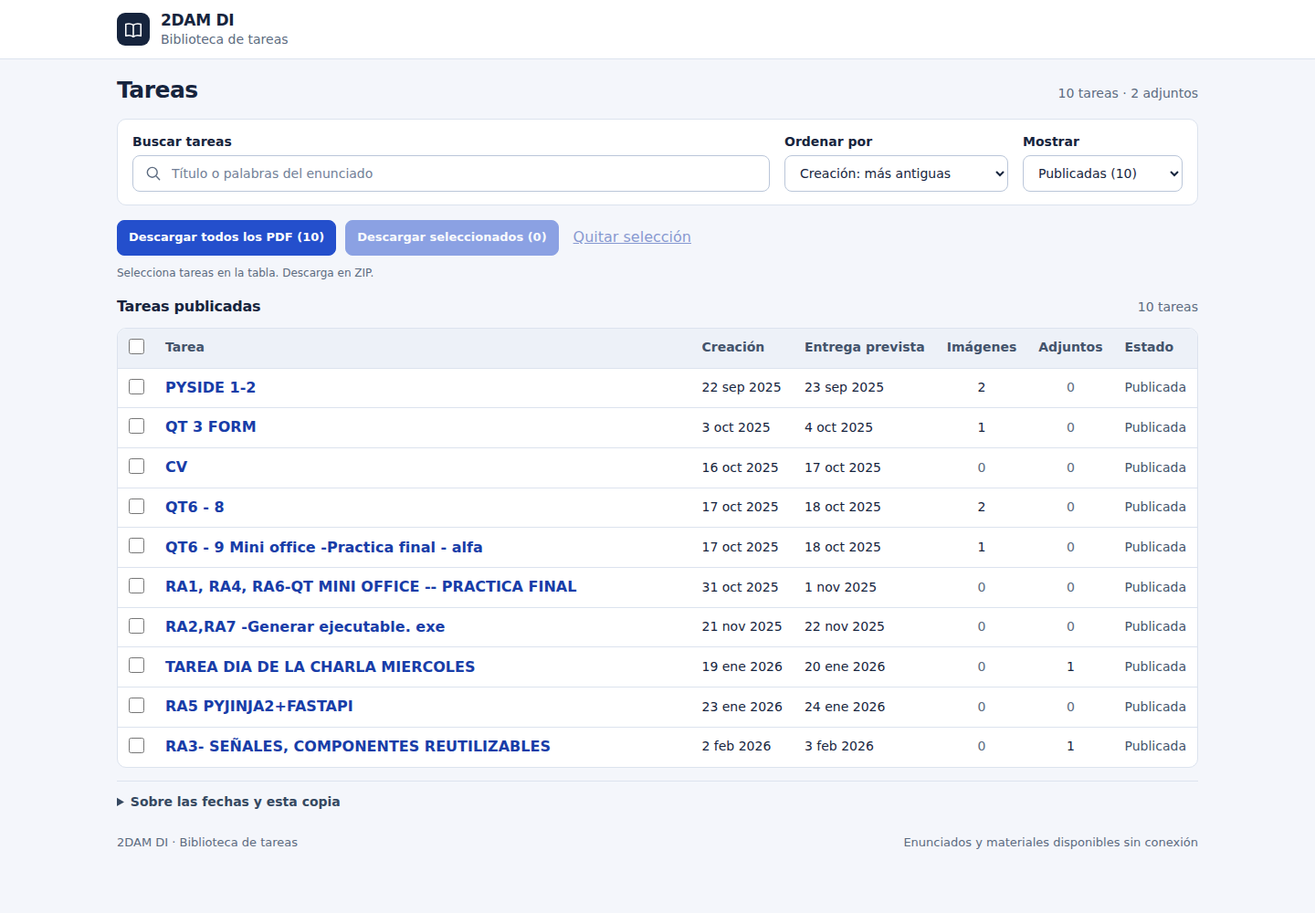
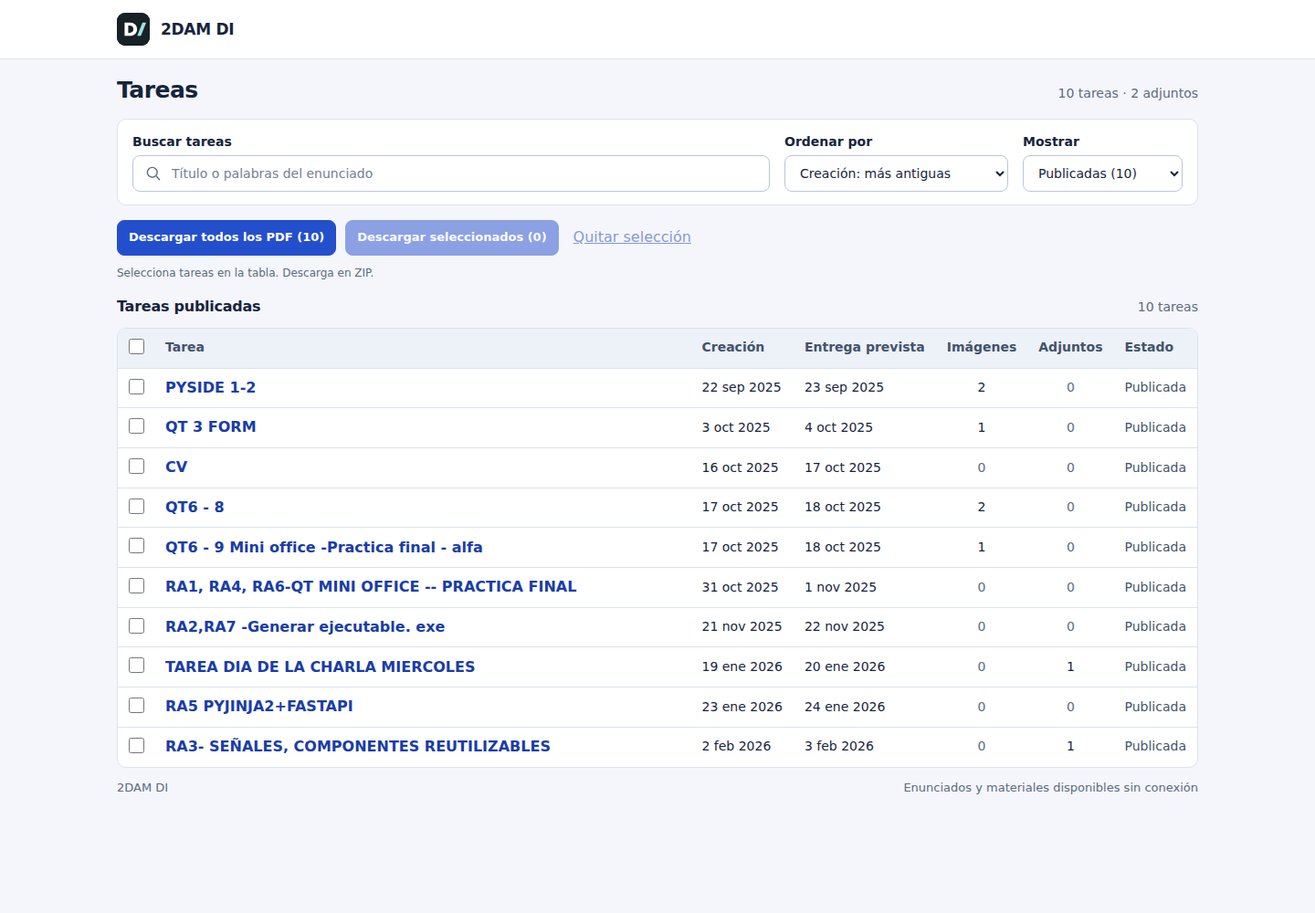
Simplify exercise headers and reuse the site brand

diff --git a/ejercicios/di/INDICE.html b/ejercicios/di/INDICE.html
@@ -1,12 +1,12 @@
 <!doctype html>
 <html lang="es"><head><meta charset="utf-8"><meta name="viewport" content="width=device-width, initial-scale=1">
 <meta http-equiv="Content-Security-Policy" content="default-src 'none'; img-src 'self' data:; style-src 'self' 'unsafe-inline'; script-src 'self'; base-uri 'none'; form-action 'none'">
-<meta name="theme-color" content="#16243d"><title>Biblioteca de tareas · 2DAM DI</title>
+<meta name="theme-color" content="#16243d"><title>Ejercicios · 2DAM DI</title>
 <link rel="stylesheet" href="../assets/aula.css">
-<link rel="stylesheet" href="../assets/listado.css"><script src="../assets/aula.js" defer></script><script src="../assets/pdf-lotes.js" defer></script></head><body class="index-page">
+<link rel="stylesheet" href="../assets/listado.css"><script src="../assets/aula.js" defer></script><script src="../assets/pdf-lotes.js" defer></script><link rel="stylesheet" href="../assets/marca.css"><link rel="icon" type="image/svg+xml" href="../../assets/favicon.svg"></head><body class="index-page">
 <a class="skip-link" href="#contenido">Ir al contenido</a>
 <header class="site-header"><div class="wrap header-inner">
-<a class="brand" href="../../index.html" title="Volver a las asignaturas" aria-label="Volver a las asignaturas"><span class="brand-mark"><svg viewBox="0 0 24 24" fill="none" stroke="currentColor" stroke-width="1.7" stroke-linecap="round" stroke-linejoin="round" aria-hidden="true"><path d="M12 7c-3-2-6-2-9-1v14c3-1 6-1 9 1 3-2 6-2 9-1V6c-3-1-6-1-9 1Z"/><path d="M12 7v14"/></svg></span><span class="brand-text"><strong>2DAM DI</strong><span>Biblioteca de tareas</span></span></a>
+<a class="brand" href="../../index.html" title="Volver a las asignaturas" aria-label="Volver a las asignaturas"><span class="brand-mark"><img src="../../assets/favicon.svg" alt="" width="64" height="64"></span><span class="brand-text"><strong>2DAM DI</strong></span></a>
 <span class="header-note"><svg viewBox="0 0 24 24" fill="none" stroke="currentColor" stroke-width="1.7" stroke-linecap="round" stroke-linejoin="round" aria-hidden="true"><path d="M12 7c-3-2-6-2-9-1v14c3-1 6-1 9 1 3-2 6-2 9-1V6c-3-1-6-1-9 1Z"/><path d="M12 7v14"/></svg> 2DAM DI</span></div></header>
 <main class="wrap" id="contenido">
 <div class="list-intro"><h1>Tareas</h1><p>10 tareas · 2 adjuntos</p></div>
@@ -77,8 +77,5 @@
 <td class="number-cell subtle">0</td><td class="number-cell">1</td>
 <td><span class="published-label">Publicada</span></td></tr></tbody></table></div>
 <section class="empty-state" id="empty-state" aria-label="Sin resultados" hidden><svg viewBox="0 0 24 24" fill="none" stroke="currentColor" stroke-width="1.7" stroke-linecap="round" stroke-linejoin="round" aria-hidden="true"><circle cx="10.5" cy="10.5" r="6.5"/><path d="m16 16 4 4"/></svg><h3>No encontramos ninguna tarea</h3><p>Prueba con otras palabras o cambia el filtro de publicación.</p><button class="button" id="reset-filters" type="button">Restablecer filtros</button></section>
-<details class="help"><summary>Sobre las fechas y esta copia</summary>
-<p><strong>Creación</strong> indica cuándo se creó la tarea en Teams, aunque todavía fuera un borrador. <strong>Entrega prevista</strong> es el plazo indicado para entregar el trabajo; Teams puede permitir entregas posteriores. Las fechas se muestran en la hora de Madrid.</p>
-<p>Esta biblioteca conserva los enunciados y materiales de la asignatura. Las entregas se realizan por el medio indicado por el profesor.</p>
-<p>Si has recibido un ZIP, elige <strong>Extraer todo</strong> antes de abrir <strong>INDICE.html</strong>. Conserva juntas todas las carpetas para que funcionen los enlaces y las imágenes.</p></details>
-</main><footer class="wrap footer"><span>2DAM DI · Biblioteca de tareas</span><span>Enunciados y materiales disponibles sin conexión</span></footer></body></html>
+
+</main><footer class="wrap footer"><span>2DAM DI</span><span>Enunciados y materiales disponibles sin conexión</span></footer></body></html>

diff --git a/ejercicios/dapw/INDICE.html b/ejercicios/dapw/INDICE.html
@@ -1,12 +1,12 @@
 <!doctype html>
 <html lang="es"><head><meta charset="utf-8"><meta name="viewport" content="width=device-width, initial-scale=1">
 <meta http-equiv="Content-Security-Policy" content="default-src 'none'; img-src 'self' data:; style-src 'self' 'unsafe-inline'; script-src 'self'; base-uri 'none'; form-action 'none'">
-<meta name="theme-color" content="#16243d"><title>Biblioteca de tareas · DAPW</title>
+<meta name="theme-color" content="#16243d"><title>Ejercicios · DAPW</title>
 <link rel="stylesheet" href="../assets/aula.css">
-<link rel="stylesheet" href="../assets/listado.css"><script src="../assets/aula.js" defer></script><script src="../assets/pdf-lotes.js" defer></script></head><body class="index-page">
+<link rel="stylesheet" href="../assets/listado.css"><script src="../assets/aula.js" defer></script><script src="../assets/pdf-lotes.js" defer></script><link rel="stylesheet" href="../assets/marca.css"><link rel="icon" type="image/svg+xml" href="../../assets/favicon.svg"></head><body class="index-page">
 <a class="skip-link" href="#contenido">Ir al contenido</a>
 <header class="site-header"><div class="wrap header-inner">
-<a class="brand" href="../../index.html" title="Volver a las asignaturas" aria-label="Volver a las asignaturas"><span class="brand-mark"><svg viewBox="0 0 24 24" fill="none" stroke="currentColor" stroke-width="1.7" stroke-linecap="round" stroke-linejoin="round" aria-hidden="true"><path d="M12 7c-3-2-6-2-9-1v14c3-1 6-1 9 1 3-2 6-2 9-1V6c-3-1-6-1-9 1Z"/><path d="M12 7v14"/></svg></span><span class="brand-text"><strong>DAPW</strong><span>Biblioteca de tareas</span></span></a>
+<a class="brand" href="../../index.html" title="Volver a las asignaturas" aria-label="Volver a las asignaturas"><span class="brand-mark"><img src="../../assets/favicon.svg" alt="" width="64" height="64"></span><span class="brand-text"><strong>DAPW</strong></span></a>
 <span class="header-note"><svg viewBox="0 0 24 24" fill="none" stroke="currentColor" stroke-width="1.7" stroke-linecap="round" stroke-linejoin="round" aria-hidden="true"><path d="M12 7c-3-2-6-2-9-1v14c3-1 6-1 9 1 3-2 6-2 9-1V6c-3-1-6-1-9 1Z"/><path d="M12 7v14"/></svg> DAPW</span></div></header>
 <main class="wrap" id="contenido">
 <div class="list-intro"><h1>Tareas</h1><p>13 tareas · 2 adjuntos</p></div>
@@ -92,8 +92,5 @@
 <td class="number-cell subtle">0</td><td class="number-cell subtle">0</td>
 <td><span class="published-label">Publicada</span></td></tr></tbody></table></div>
 <section class="empty-state" id="empty-state" aria-label="Sin resultados" hidden><svg viewBox="0 0 24 24" fill="none" stroke="currentColor" stroke-width="1.7" stroke-linecap="round" stroke-linejoin="round" aria-hidden="true"><circle cx="10.5" cy="10.5" r="6.5"/><path d="m16 16 4 4"/></svg><h3>No encontramos ninguna tarea</h3><p>Prueba con otras palabras o cambia el filtro de publicación.</p><button class="button" id="reset-filters" type="button">Restablecer filtros</button></section>
-<details class="help"><summary>Sobre las fechas y esta copia</summary>
-<p><strong>Creación</strong> indica cuándo se creó la tarea en Teams, aunque todavía fuera un borrador. <strong>Entrega prevista</strong> es el plazo indicado para entregar el trabajo; Teams puede permitir entregas posteriores. Las fechas se muestran en la hora de Madrid.</p>
-<p>Esta biblioteca conserva los enunciados y materiales de la asignatura. Las entregas se realizan por el medio indicado por el profesor.</p>
-<p>Si has recibido un ZIP, elige <strong>Extraer todo</strong> antes de abrir <strong>INDICE.html</strong>. Conserva juntas todas las carpetas para que funcionen los enlaces y las imágenes.</p></details>
-</main><footer class="wrap footer"><span>DAPW · Biblioteca de tareas</span><span>Enunciados y materiales disponibles sin conexión</span></footer></body></html>
+
+</main><footer class="wrap footer"><span>DAPW</span><span>Enunciados y materiales disponibles sin conexión</span></footer></body></html>

diff --git a/ejercicios/pi/INDICE.html b/ejercicios/pi/INDICE.html
@@ -1,12 +1,12 @@
 <!doctype html>
 <html lang="es"><head><meta charset="utf-8"><meta name="viewport" content="width=device-width, initial-scale=1">
 <meta http-equiv="Content-Security-Policy" content="default-src 'none'; img-src 'self' data:; style-src 'self' 'unsafe-inline'; script-src 'self'; base-uri 'none'; form-action 'none'">
-<meta name="theme-color" content="#16243d"><title>Biblioteca de tareas · PI</title>
+<meta name="theme-color" content="#16243d"><title>Ejercicios · PI</title>
 <link rel="stylesheet" href="../assets/aula.css">
-<link rel="stylesheet" href="../assets/listado.css"><script src="../assets/aula.js" defer></script><script src="../assets/pdf-lotes.js" defer></script></head><body class="index-page">
+<link rel="stylesheet" href="../assets/listado.css"><script src="../assets/aula.js" defer></script><script src="../assets/pdf-lotes.js" defer></script><link rel="stylesheet" href="../assets/marca.css"><link rel="icon" type="image/svg+xml" href="../../assets/favicon.svg"></head><body class="index-page">
 <a class="skip-link" href="#contenido">Ir al contenido</a>
 <header class="site-header"><div class="wrap header-inner">
-<a class="brand" href="../../index.html" title="Volver a las asignaturas" aria-label="Volver a las asignaturas"><span class="brand-mark"><svg viewBox="0 0 24 24" fill="none" stroke="currentColor" stroke-width="1.7" stroke-linecap="round" stroke-linejoin="round" aria-hidden="true"><path d="M12 7c-3-2-6-2-9-1v14c3-1 6-1 9 1 3-2 6-2 9-1V6c-3-1-6-1-9 1Z"/><path d="M12 7v14"/></svg></span><span class="brand-text"><strong>PI</strong><span>Biblioteca de tareas</span></span></a>
+<a class="brand" href="../../index.html" title="Volver a las asignaturas" aria-label="Volver a las asignaturas"><span class="brand-mark"><img src="../../assets/favicon.svg" alt="" width="64" height="64"></span><span class="brand-text"><strong>PI</strong></span></a>
 <span class="header-note"><svg viewBox="0 0 24 24" fill="none" stroke="currentColor" stroke-width="1.7" stroke-linecap="round" stroke-linejoin="round" aria-hidden="true"><path d="M12 7c-3-2-6-2-9-1v14c3-1 6-1 9 1 3-2 6-2 9-1V6c-3-1-6-1-9 1Z"/><path d="M12 7v14"/></svg> PI</span></div></header>
 <main class="wrap" id="contenido">
 <div class="list-intro"><h1>Tareas</h1><p>2 tareas · 0 adjuntos</p></div>
@@ -39,8 +39,5 @@
 <td><span class="published-label">Publicada</span></td></tr>
 </tbody></table></div>
 <section class="empty-state" id="empty-state" aria-label="Sin resultados" hidden><svg viewBox="0 0 24 24" fill="none" stroke="currentColor" stroke-width="1.7" stroke-linecap="round" stroke-linejoin="round" aria-hidden="true"><circle cx="10.5" cy="10.5" r="6.5"/><path d="m16 16 4 4"/></svg><h3>No encontramos ninguna tarea</h3><p>Prueba con otras palabras o cambia el filtro de publicación.</p><button class="button" id="reset-filters" type="button">Restablecer filtros</button></section>
-<details class="help"><summary>Sobre las fechas y esta copia</summary>
-<p><strong>Creación</strong> indica cuándo se creó la tarea en Teams, aunque todavía fuera un borrador. <strong>Entrega prevista</strong> es el plazo indicado para entregar el trabajo; Teams puede permitir entregas posteriores. Las fechas se muestran en la hora de Madrid.</p>
-<p>Esta biblioteca conserva los enunciados y materiales de la asignatura. Las entregas se realizan por el medio indicado por el profesor.</p>
-<p>Si has recibido un ZIP, elige <strong>Extraer todo</strong> antes de abrir <strong>INDICE.html</strong>. Conserva juntas todas las carpetas para que funcionen los enlaces y las imágenes.</p></details>
-</main><footer class="wrap footer"><span>PI · Biblioteca de tareas</span><span>Enunciados y materiales disponibles sin conexión</span></footer></body></html>
+
+</main><footer class="wrap footer"><span>PI</span><span>Enunciados y materiales disponibles sin conexión</span></footer></body></html>

diff --git a/ejercicios/pi/ENTREGA FINAL DOCUMENTACION PI + enlace al repo de github/TAREA.html b/ejercicios/pi/ENTREGA FINAL DOCUMENTACION PI + enlace al repo de github/TAREA.html
@@ -4,10 +4,10 @@
 <meta name="theme-color" content="#16243d"><title>ENTREGA FINAL DOCUMENTACION PI + enlace al repo de github · PI</title>
 <link rel="stylesheet" href="../../assets/aula.css">
 <link rel="stylesheet" href="../../assets/pdf.css">
-</head><body>
+<link rel="stylesheet" href="../../assets/marca.css"><link rel="icon" type="image/svg+xml" href="../../../assets/favicon.svg"></head><body>
 <a class="skip-link" href="#contenido">Ir al contenido</a>
 <header class="site-header"><div class="wrap header-inner">
-<a class="brand" href="../../../index.html" title="Volver a las asignaturas" aria-label="Volver a las asignaturas"><span class="brand-mark"><svg viewBox="0 0 24 24" fill="none" stroke="currentColor" stroke-width="1.7" stroke-linecap="round" stroke-linejoin="round" aria-hidden="true"><path d="M12 7c-3-2-6-2-9-1v14c3-1 6-1 9 1 3-2 6-2 9-1V6c-3-1-6-1-9 1Z"/><path d="M12 7v14"/></svg></span><span class="brand-text"><strong>PI</strong><span>Biblioteca de tareas</span></span></a>
+<a class="brand" href="../../../index.html" title="Volver a las asignaturas" aria-label="Volver a las asignaturas"><span class="brand-mark"><img src="../../../assets/favicon.svg" alt="" width="64" height="64"></span><span class="brand-text"><strong>PI</strong></span></a>
 <span class="header-note"><svg viewBox="0 0 24 24" fill="none" stroke="currentColor" stroke-width="1.7" stroke-linecap="round" stroke-linejoin="round" aria-hidden="true"><path d="M12 7c-3-2-6-2-9-1v14c3-1 6-1 9 1 3-2 6-2 9-1V6c-3-1-6-1-9 1Z"/><path d="M12 7v14"/></svg> PI</span></div></header>
 <main class="wrap" id="contenido"><a class="back-link" href="../INDICE.html"><svg viewBox="0 0 24 24" fill="none" stroke="currentColor" stroke-width="1.7" stroke-linecap="round" stroke-linejoin="round" aria-hidden="true"><path d="M19 12H5m6-6-6 6 6 6"/></svg> Volver a las tareas</a>
 <div class="task-layout"><article class="task-main"><p class="eyebrow">PI · Tarea</p><h1>ENTREGA FINAL DOCUMENTACION PI + enlace al repo de github</h1>
@@ -20,4 +20,4 @@
 <div><dt>Estado en Teams</dt><dd>Publicada</dd></div>
 <div><dt>Puntuación</dt><dd>Sin puntuación</dd></div>
 </dl><p class="timezone">Fechas en la hora de Madrid.</p><a id="task-pdf-download" class="button task-pdf" href="ENTREGA%20FINAL%20DOCUMENTACION%20PI%20%2B%20enlace%20al%20repo%20de%20github.pdf" download="ENTREGA FINAL DOCUMENTACION PI + enlace al repo de github.pdf"><svg viewBox="0 0 24 24" fill="none" stroke="currentColor" stroke-width="1.7" stroke-linecap="round" stroke-linejoin="round" aria-hidden="true"><path d="M12 3v12m-5-5 5 5 5-5M4 16v5h16v-5"/></svg> Descargar PDF</a>
-<p class="pdf-note">Enunciado e imágenes. Los adjuntos se descargan por separado.</p></aside></div></main><footer class="wrap footer"><span>PI · Biblioteca de tareas</span><span>Enunciados y materiales disponibles sin conexión</span></footer></body></html>
+<p class="pdf-note">Enunciado e imágenes. Los adjuntos se descargan por separado.</p></aside></div></main><footer class="wrap footer"><span>PI</span><span>Enunciados y materiales disponibles sin conexión</span></footer></body></html>

diff --git a/ejercicios/di/RA1, RA4, RA6-QT MINI OFFICE -- PRACTICA FINAL/TAREA.html b/ejercicios/di/RA1, RA4, RA6-QT MINI OFFICE -- PRACTICA FINAL/TAREA.html
@@ -4,10 +4,10 @@
 <meta name="theme-color" content="#16243d"><title>RA1, RA4, RA6-QT MINI OFFICE -- PRACTICA FINAL · 2DAM DI</title>
 <link rel="stylesheet" href="../../assets/aula.css">
 <link rel="stylesheet" href="../../assets/pdf.css">
-</head><body>
+<link rel="stylesheet" href="../../assets/marca.css"><link rel="icon" type="image/svg+xml" href="../../../assets/favicon.svg"></head><body>
 <a class="skip-link" href="#contenido">Ir al contenido</a>
 <header class="site-header"><div class="wrap header-inner">
-<a class="brand" href="../../../index.html" title="Volver a las asignaturas" aria-label="Volver a las asignaturas"><span class="brand-mark"><svg viewBox="0 0 24 24" fill="none" stroke="currentColor" stroke-width="1.7" stroke-linecap="round" stroke-linejoin="round" aria-hidden="true"><path d="M12 7c-3-2-6-2-9-1v14c3-1 6-1 9 1 3-2 6-2 9-1V6c-3-1-6-1-9 1Z"/><path d="M12 7v14"/></svg></span><span class="brand-text"><strong>2DAM DI</strong><span>Biblioteca de tareas</span></span></a>
+<a class="brand" href="../../../index.html" title="Volver a las asignaturas" aria-label="Volver a las asignaturas"><span class="brand-mark"><img src="../../../assets/favicon.svg" alt="" width="64" height="64"></span><span class="brand-text"><strong>2DAM DI</strong></span></a>
 <span class="header-note"><svg viewBox="0 0 24 24" fill="none" stroke="currentColor" stroke-width="1.7" stroke-linecap="round" stroke-linejoin="round" aria-hidden="true"><path d="M12 7c-3-2-6-2-9-1v14c3-1 6-1 9 1 3-2 6-2 9-1V6c-3-1-6-1-9 1Z"/><path d="M12 7v14"/></svg> 2DAM DI</span></div></header>
 <main class="wrap" id="contenido"><a class="back-link" href="../INDICE.html"><svg viewBox="0 0 24 24" fill="none" stroke="currentColor" stroke-width="1.7" stroke-linecap="round" stroke-linejoin="round" aria-hidden="true"><path d="M19 12H5m6-6-6 6 6 6"/></svg> Volver a las tareas</a>
 <div class="task-layout"><article class="task-main"><p class="eyebrow">2DAM DI · Tarea</p><h1>RA1, RA4, RA6-QT MINI OFFICE -- PRACTICA FINAL</h1>
@@ -20,4 +20,4 @@
 <div><dt>Estado en Teams</dt><dd>Publicada</dd></div>
 <div><dt>Puntuación</dt><dd>Sin puntuación</dd></div>
 </dl><p class="timezone">Fechas en la hora de Madrid.</p><a id="task-pdf-download" class="button task-pdf" href="RA1%2C%20RA4%2C%20RA6-QT%20MINI%20OFFICE%20--%20PRACTICA%20FINAL.pdf" download="RA1, RA4, RA6-QT MINI OFFICE -- PRACTICA FINAL.pdf"><svg viewBox="0 0 24 24" fill="none" stroke="currentColor" stroke-width="1.7" stroke-linecap="round" stroke-linejoin="round" aria-hidden="true"><path d="M12 3v12m-5-5 5 5 5-5M4 16v5h16v-5"/></svg> Descargar PDF</a>
-<p class="pdf-note">Enunciado e imágenes. Los adjuntos se descargan por separado.</p></aside></div></main><footer class="wrap footer"><span>2DAM DI · Biblioteca de tareas</span><span>Enunciados y materiales disponibles sin conexión</span></footer></body></html>
+<p class="pdf-note">Enunciado e imágenes. Los adjuntos se descargan por separado.</p></aside></div></main><footer class="wrap footer"><span>2DAM DI</span><span>Enunciados y materiales disponibles sin conexión</span></footer></body></html>

diff --git a/ejercicios/di/QT6 - 9 Mini office -Practica final - alfa/TAREA.html b/ejercicios/di/QT6 - 9 Mini office -Practica final - alfa/TAREA.html
@@ -4,10 +4,10 @@
 <meta name="theme-color" content="#16243d"><title>QT6 - 9 Mini office -Practica final - alfa · 2DAM DI</title>
 <link rel="stylesheet" href="../../assets/aula.css">
 <link rel="stylesheet" href="../../assets/pdf.css">
-</head><body>
+<link rel="stylesheet" href="../../assets/marca.css"><link rel="icon" type="image/svg+xml" href="../../../assets/favicon.svg"></head><body>
 <a class="skip-link" href="#contenido">Ir al contenido</a>
 <header class="site-header"><div class="wrap header-inner">
-<a class="brand" href="../../../index.html" title="Volver a las asignaturas" aria-label="Volver a las asignaturas"><span class="brand-mark"><svg viewBox="0 0 24 24" fill="none" stroke="currentColor" stroke-width="1.7" stroke-linecap="round" stroke-linejoin="round" aria-hidden="true"><path d="M12 7c-3-2-6-2-9-1v14c3-1 6-1 9 1 3-2 6-2 9-1V6c-3-1-6-1-9 1Z"/><path d="M12 7v14"/></svg></span><span class="brand-text"><strong>2DAM DI</strong><span>Biblioteca de tareas</span></span></a>
+<a class="brand" href="../../../index.html" title="Volver a las asignaturas" aria-label="Volver a las asignaturas"><span class="brand-mark"><img src="../../../assets/favicon.svg" alt="" width="64" height="64"></span><span class="brand-text"><strong>2DAM DI</strong></span></a>
 <span class="header-note"><svg viewBox="0 0 24 24" fill="none" stroke="currentColor" stroke-width="1.7" stroke-linecap="round" stroke-linejoin="round" aria-hidden="true"><path d="M12 7c-3-2-6-2-9-1v14c3-1 6-1 9 1 3-2 6-2 9-1V6c-3-1-6-1-9 1Z"/><path d="M12 7v14"/></svg> 2DAM DI</span></div></header>
 <main class="wrap" id="contenido"><a class="back-link" href="../INDICE.html"><svg viewBox="0 0 24 24" fill="none" stroke="currentColor" stroke-width="1.7" stroke-linecap="round" stroke-linejoin="round" aria-hidden="true"><path d="M19 12H5m6-6-6 6 6 6"/></svg> Volver a las tareas</a>
 <div class="task-layout"><article class="task-main"><p class="eyebrow">2DAM DI · Tarea</p><h1>QT6 - 9 Mini office -Practica final - alfa</h1>
@@ -20,4 +20,4 @@
 <div><dt>Estado en Teams</dt><dd>Publicada</dd></div>
 <div><dt>Puntuación</dt><dd>Sin puntuación</dd></div>
 </dl><p class="timezone">Fechas en la hora de Madrid.</p><a id="task-pdf-download" class="button task-pdf" href="QT6%20-%209%20Mini%20office%20-Practica%20final%20-%20alfa.pdf" download="QT6 - 9 Mini office -Practica final - alfa.pdf"><svg viewBox="0 0 24 24" fill="none" stroke="currentColor" stroke-width="1.7" stroke-linecap="round" stroke-linejoin="round" aria-hidden="true"><path d="M12 3v12m-5-5 5 5 5-5M4 16v5h16v-5"/></svg> Descargar PDF</a>
-<p class="pdf-note">Enunciado e imágenes. Los adjuntos se descargan por separado.</p></aside></div></main><footer class="wrap footer"><span>2DAM DI · Biblioteca de tareas</span><span>Enunciados y materiales disponibles sin conexión</span></footer></body></html>
+<p class="pdf-note">Enunciado e imágenes. Los adjuntos se descargan por separado.</p></aside></div></main><footer class="wrap footer"><span>2DAM DI</span><span>Enunciados y materiales disponibles sin conexión</span></footer></body></html>

diff --git a/ejercicios/di/RA3- SEÑALES, COMPONENTES REUTILIZABLES/TAREA.html b/ejercicios/di/RA3- SEÑALES, COMPONENTES REUTILIZABLES/TAREA.html
@@ -4,10 +4,10 @@
 <meta name="theme-color" content="#16243d"><title>RA3- SEÑALES, COMPONENTES REUTILIZABLES · 2DAM DI</title>
 <link rel="stylesheet" href="../../assets/aula.css">
 <link rel="stylesheet" href="../../assets/pdf.css">
-</head><body>
+<link rel="stylesheet" href="../../assets/marca.css"><link rel="icon" type="image/svg+xml" href="../../../assets/favicon.svg"></head><body>
 <a class="skip-link" href="#contenido">Ir al contenido</a>
 <header class="site-header"><div class="wrap header-inner">
-<a class="brand" href="../../../index.html" title="Volver a las asignaturas" aria-label="Volver a las asignaturas"><span class="brand-mark"><svg viewBox="0 0 24 24" fill="none" stroke="currentColor" stroke-width="1.7" stroke-linecap="round" stroke-linejoin="round" aria-hidden="true"><path d="M12 7c-3-2-6-2-9-1v14c3-1 6-1 9 1 3-2 6-2 9-1V6c-3-1-6-1-9 1Z"/><path d="M12 7v14"/></svg></span><span class="brand-text"><strong>2DAM DI</strong><span>Biblioteca de tareas</span></span></a>
+<a class="brand" href="../../../index.html" title="Volver a las asignaturas" aria-label="Volver a las asignaturas"><span class="brand-mark"><img src="../../../assets/favicon.svg" alt="" width="64" height="64"></span><span class="brand-text"><strong>2DAM DI</strong></span></a>
 <span class="header-note"><svg viewBox="0 0 24 24" fill="none" stroke="currentColor" stroke-width="1.7" stroke-linecap="round" stroke-linejoin="round" aria-hidden="true"><path d="M12 7c-3-2-6-2-9-1v14c3-1 6-1 9 1 3-2 6-2 9-1V6c-3-1-6-1-9 1Z"/><path d="M12 7v14"/></svg> 2DAM DI</span></div></header>
 <main class="wrap" id="contenido"><a class="back-link" href="../INDICE.html"><svg viewBox="0 0 24 24" fill="none" stroke="currentColor" stroke-width="1.7" stroke-linecap="round" stroke-linejoin="round" aria-hidden="true"><path d="M19 12H5m6-6-6 6 6 6"/></svg> Volver a las tareas</a>
 <div class="task-layout"><article class="task-main"><p class="eyebrow">2DAM DI · Tarea</p><h1>RA3- SEÑALES, COMPONENTES REUTILIZABLES</h1>
@@ -20,4 +20,4 @@
 <div><dt>Estado en Teams</dt><dd>Publicada</dd></div>
 <div><dt>Puntuación</dt><dd>Sin puntuación</dd></div>
 </dl><p class="timezone">Fechas en la hora de Madrid.</p><a id="task-pdf-download" class="button task-pdf" href="RA3-%20SE%C3%91ALES%2C%20COMPONENTES%20REUTILIZABLES.pdf" download="RA3- SEÑALES, COMPONENTES REUTILIZABLES.pdf"><svg viewBox="0 0 24 24" fill="none" stroke="currentColor" stroke-width="1.7" stroke-linecap="round" stroke-linejoin="round" aria-hidden="true"><path d="M12 3v12m-5-5 5 5 5-5M4 16v5h16v-5"/></svg> Descargar PDF</a>
-<p class="pdf-note">Enunciado e imágenes. Los adjuntos se descargan por separado.</p></aside></div></main><footer class="wrap footer"><span>2DAM DI · Biblioteca de tareas</span><span>Enunciados y materiales disponibles sin conexión</span></footer></body></html>
+<p class="pdf-note">Enunciado e imágenes. Los adjuntos se descargan por separado.</p></aside></div></main><footer class="wrap footer"><span>2DAM DI</span><span>Enunciados y materiales disponibles sin conexión</span></footer></body></html>

diff --git a/ejercicios/dapw/COMPOSE 2 Y 3 --SOLO ALUMNOS AUSENTES/TAREA.html b/ejercicios/dapw/COMPOSE 2 Y 3 --SOLO ALUMNOS AUSENTES/TAREA.html
@@ -4,10 +4,10 @@
 <meta name="theme-color" content="#16243d"><title>COMPOSE 2 Y 3 --SOLO ALUMNOS AUSENTES · DAPW</title>
 <link rel="stylesheet" href="../../assets/aula.css">
 <link rel="stylesheet" href="../../assets/pdf.css">
-</head><body>
+<link rel="stylesheet" href="../../assets/marca.css"><link rel="icon" type="image/svg+xml" href="../../../assets/favicon.svg"></head><body>
 <a class="skip-link" href="#contenido">Ir al contenido</a>
 <header class="site-header"><div class="wrap header-inner">
-<a class="brand" href="../../../index.html" title="Volver a las asignaturas" aria-label="Volver a las asignaturas"><span class="brand-mark"><svg viewBox="0 0 24 24" fill="none" stroke="currentColor" stroke-width="1.7" stroke-linecap="round" stroke-linejoin="round" aria-hidden="true"><path d="M12 7c-3-2-6-2-9-1v14c3-1 6-1 9 1 3-2 6-2 9-1V6c-3-1-6-1-9 1Z"/><path d="M12 7v14"/></svg></span><span class="brand-text"><strong>DAPW</strong><span>Biblioteca de tareas</span></span></a>
+<a class="brand" href="../../../index.html" title="Volver a las asignaturas" aria-label="Volver a las asignaturas"><span class="brand-mark"><img src="../../../assets/favicon.svg" alt="" width="64" height="64"></span><span class="brand-text"><strong>DAPW</strong></span></a>
 <span class="header-note"><svg viewBox="0 0 24 24" fill="none" stroke="currentColor" stroke-width="1.7" stroke-linecap="round" stroke-linejoin="round" aria-hidden="true"><path d="M12 7c-3-2-6-2-9-1v14c3-1 6-1 9 1 3-2 6-2 9-1V6c-3-1-6-1-9 1Z"/><path d="M12 7v14"/></svg> DAPW</span></div></header>
 <main class="wrap" id="contenido"><a class="back-link" href="../INDICE.html"><svg viewBox="0 0 24 24" fill="none" stroke="currentColor" stroke-width="1.7" stroke-linecap="round" stroke-linejoin="round" aria-hidden="true"><path d="M19 12H5m6-6-6 6 6 6"/></svg> Volver a las tareas</a>
 <div class="task-layout"><article class="task-main"><p class="eyebrow">DAPW · Tarea</p><h1>COMPOSE 2 Y 3 --SOLO ALUMNOS AUSENTES</h1>
@@ -20,4 +20,4 @@
 <div><dt>Estado en Teams</dt><dd>Publicada</dd></div>
 <div><dt>Puntuación</dt><dd>Sin puntuación</dd></div>
 </dl><p class="timezone">Fechas en la hora de Madrid.</p><a id="task-pdf-download" class="button task-pdf" href="COMPOSE%202%20Y%203%20--SOLO%20ALUMNOS%20AUSENTES.pdf" download="COMPOSE 2 Y 3 --SOLO ALUMNOS AUSENTES.pdf"><svg viewBox="0 0 24 24" fill="none" stroke="currentColor" stroke-width="1.7" stroke-linecap="round" stroke-linejoin="round" aria-hidden="true"><path d="M12 3v12m-5-5 5 5 5-5M4 16v5h16v-5"/></svg> Descargar PDF</a>
-<p class="pdf-note">Enunciado e imágenes. Los adjuntos se descargan por separado.</p></aside></div></main><footer class="wrap footer"><span>DAPW · Biblioteca de tareas</span><span>Enunciados y materiales disponibles sin conexión</span></footer></body></html>
+<p class="pdf-note">Enunciado e imágenes. Los adjuntos se descargan por separado.</p></aside></div></main><footer class="wrap footer"><span>DAPW</span><span>Enunciados y materiales disponibles sin conexión</span></footer></body></html>

diff --git a/ejercicios/di/TAREA DIA DE LA CHARLA MIERCOLES/TAREA.html b/ejercicios/di/TAREA DIA DE LA CHARLA MIERCOLES/TAREA.html
@@ -4,10 +4,10 @@
 <meta name="theme-color" content="#16243d"><title>TAREA DIA DE LA CHARLA MIERCOLES · 2DAM DI</title>
 <link rel="stylesheet" href="../../assets/aula.css">
 <link rel="stylesheet" href="../../assets/pdf.css">
-</head><body>
+<link rel="stylesheet" href="../../assets/marca.css"><link rel="icon" type="image/svg+xml" href="../../../assets/favicon.svg"></head><body>
 <a class="skip-link" href="#contenido">Ir al contenido</a>
 <header class="site-header"><div class="wrap header-inner">
-<a class="brand" href="../../../index.html" title="Volver a las asignaturas" aria-label="Volver a las asignaturas"><span class="brand-mark"><svg viewBox="0 0 24 24" fill="none" stroke="currentColor" stroke-width="1.7" stroke-linecap="round" stroke-linejoin="round" aria-hidden="true"><path d="M12 7c-3-2-6-2-9-1v14c3-1 6-1 9 1 3-2 6-2 9-1V6c-3-1-6-1-9 1Z"/><path d="M12 7v14"/></svg></span><span class="brand-text"><strong>2DAM DI</strong><span>Biblioteca de tareas</span></span></a>
+<a class="brand" href="../../../index.html" title="Volver a las asignaturas" aria-label="Volver a las asignaturas"><span class="brand-mark"><img src="../../../assets/favicon.svg" alt="" width="64" height="64"></span><span class="brand-text"><strong>2DAM DI</strong></span></a>
 <span class="header-note"><svg viewBox="0 0 24 24" fill="none" stroke="currentColor" stroke-width="1.7" stroke-linecap="round" stroke-linejoin="round" aria-hidden="true"><path d="M12 7c-3-2-6-2-9-1v14c3-1 6-1 9 1 3-2 6-2 9-1V6c-3-1-6-1-9 1Z"/><path d="M12 7v14"/></svg> 2DAM DI</span></div></header>
 <main class="wrap" id="contenido"><a class="back-link" href="../INDICE.html"><svg viewBox="0 0 24 24" fill="none" stroke="currentColor" stroke-width="1.7" stroke-linecap="round" stroke-linejoin="round" aria-hidden="true"><path d="M19 12H5m6-6-6 6 6 6"/></svg> Volver a las tareas</a>
 <div class="task-layout"><article class="task-main"><p class="eyebrow">2DAM DI · Tarea</p><h1>TAREA DIA DE LA CHARLA MIERCOLES</h1>
@@ -20,4 +20,4 @@
 <div><dt>Estado en Teams</dt><dd>Publicada</dd></div>
 <div><dt>Puntuación</dt><dd>Sin puntuación</dd></div>
 </dl><p class="timezone">Fechas en la hora de Madrid.</p><a id="task-pdf-download" class="button task-pdf" href="TAREA%20DIA%20DE%20LA%20CHARLA%20MIERCOLES.pdf" download="TAREA DIA DE LA CHARLA MIERCOLES.pdf"><svg viewBox="0 0 24 24" fill="none" stroke="currentColor" stroke-width="1.7" stroke-linecap="round" stroke-linejoin="round" aria-hidden="true"><path d="M12 3v12m-5-5 5 5 5-5M4 16v5h16v-5"/></svg> Descargar PDF</a>
-<p class="pdf-note">Enunciado e imágenes. Los adjuntos se descargan por separado.</p></aside></div></main><footer class="wrap footer"><span>2DAM DI · Biblioteca de tareas</span><span>Enunciados y materiales disponibles sin conexión</span></footer></body></html>
+<p class="pdf-note">Enunciado e imágenes. Los adjuntos se descargan por separado.</p></aside></div></main><footer class="wrap footer"><span>2DAM DI</span><span>Enunciados y materiales disponibles sin conexión</span></footer></body></html>

diff --git a/ejercicios/di/RA2,RA7 -Generar ejecutable. exe/TAREA.html b/ejercicios/di/RA2,RA7 -Generar ejecutable. exe/TAREA.html
@@ -4,10 +4,10 @@
 <meta name="theme-color" content="#16243d"><title>RA2,RA7 -Generar ejecutable. exe · 2DAM DI</title>
 <link rel="stylesheet" href="../../assets/aula.css">
 <link rel="stylesheet" href="../../assets/pdf.css">
-</head><body>
+<link rel="stylesheet" href="../../assets/marca.css"><link rel="icon" type="image/svg+xml" href="../../../assets/favicon.svg"></head><body>
 <a class="skip-link" href="#contenido">Ir al contenido</a>
 <header class="site-header"><div class="wrap header-inner">
-<a class="brand" href="../../../index.html" title="Volver a las asignaturas" aria-label="Volver a las asignaturas"><span class="brand-mark"><svg viewBox="0 0 24 24" fill="none" stroke="currentColor" stroke-width="1.7" stroke-linecap="round" stroke-linejoin="round" aria-hidden="true"><path d="M12 7c-3-2-6-2-9-1v14c3-1 6-1 9 1 3-2 6-2 9-1V6c-3-1-6-1-9 1Z"/><path d="M12 7v14"/></svg></span><span class="brand-text"><strong>2DAM DI</strong><span>Biblioteca de tareas</span></span></a>
+<a class="brand" href="../../../index.html" title="Volver a las asignaturas" aria-label="Volver a las asignaturas"><span class="brand-mark"><img src="../../../assets/favicon.svg" alt="" width="64" height="64"></span><span class="brand-text"><strong>2DAM DI</strong></span></a>
 <span class="header-note"><svg viewBox="0 0 24 24" fill="none" stroke="currentColor" stroke-width="1.7" stroke-linecap="round" stroke-linejoin="round" aria-hidden="true"><path d="M12 7c-3-2-6-2-9-1v14c3-1 6-1 9 1 3-2 6-2 9-1V6c-3-1-6-1-9 1Z"/><path d="M12 7v14"/></svg> 2DAM DI</span></div></header>
 <main class="wrap" id="contenido"><a class="back-link" href="../INDICE.html"><svg viewBox="0 0 24 24" fill="none" stroke="currentColor" stroke-width="1.7" stroke-linecap="round" stroke-linejoin="round" aria-hidden="true"><path d="M19 12H5m6-6-6 6 6 6"/></svg> Volver a las tareas</a>
 <div class="task-layout"><article class="task-main"><p class="eyebrow">2DAM DI · Tarea</p><h1>RA2,RA7 -Generar ejecutable. exe</h1>
@@ -20,4 +20,4 @@
 <div><dt>Estado en Teams</dt><dd>Publicada</dd></div>
 <div><dt>Puntuación</dt><dd>Sin puntuación</dd></div>
 </dl><p class="timezone">Fechas en la hora de Madrid.</p><a id="task-pdf-download" class="button task-pdf" href="RA2%2CRA7%20-Generar%20ejecutable.%20exe.pdf" download="RA2,RA7 -Generar ejecutable. exe.pdf"><svg viewBox="0 0 24 24" fill="none" stroke="currentColor" stroke-width="1.7" stroke-linecap="round" stroke-linejoin="round" aria-hidden="true"><path d="M12 3v12m-5-5 5 5 5-5M4 16v5h16v-5"/></svg> Descargar PDF</a>
-<p class="pdf-note">Enunciado e imágenes. Los adjuntos se descargan por separado.</p></aside></div></main><footer class="wrap footer"><span>2DAM DI · Biblioteca de tareas</span><span>Enunciados y materiales disponibles sin conexión</span></footer></body></html>
+<p class="pdf-note">Enunciado e imágenes. Los adjuntos se descargan por separado.</p></aside></div></main><footer class="wrap footer"><span>2DAM DI</span><span>Enunciados y materiales disponibles sin conexión</span></footer></body></html>

diff --git a/ejercicios/dapw/Flask Cat App – Evaluable/TAREA.html b/ejercicios/dapw/Flask Cat App – Evaluable/TAREA.html
@@ -4,10 +4,10 @@
 <meta name="theme-color" content="#16243d"><title>Flask Cat App – Evaluable · DAPW</title>
 <link rel="stylesheet" href="../../assets/aula.css">
 <link rel="stylesheet" href="../../assets/pdf.css">
-</head><body>
+<link rel="stylesheet" href="../../assets/marca.css"><link rel="icon" type="image/svg+xml" href="../../../assets/favicon.svg"></head><body>
 <a class="skip-link" href="#contenido">Ir al contenido</a>
 <header class="site-header"><div class="wrap header-inner">
-<a class="brand" href="../../../index.html" title="Volver a las asignaturas" aria-label="Volver a las asignaturas"><span class="brand-mark"><svg viewBox="0 0 24 24" fill="none" stroke="currentColor" stroke-width="1.7" stroke-linecap="round" stroke-linejoin="round" aria-hidden="true"><path d="M12 7c-3-2-6-2-9-1v14c3-1 6-1 9 1 3-2 6-2 9-1V6c-3-1-6-1-9 1Z"/><path d="M12 7v14"/></svg></span><span class="brand-text"><strong>DAPW</strong><span>Biblioteca de tareas</span></span></a>
+<a class="brand" href="../../../index.html" title="Volver a las asignaturas" aria-label="Volver a las asignaturas"><span class="brand-mark"><img src="../../../assets/favicon.svg" alt="" width="64" height="64"></span><span class="brand-text"><strong>DAPW</strong></span></a>
 <span class="header-note"><svg viewBox="0 0 24 24" fill="none" stroke="currentColor" stroke-width="1.7" stroke-linecap="round" stroke-linejoin="round" aria-hidden="true"><path d="M12 7c-3-2-6-2-9-1v14c3-1 6-1 9 1 3-2 6-2 9-1V6c-3-1-6-1-9 1Z"/><path d="M12 7v14"/></svg> DAPW</span></div></header>
 <main class="wrap" id="contenido"><a class="back-link" href="../INDICE.html"><svg viewBox="0 0 24 24" fill="none" stroke="currentColor" stroke-width="1.7" stroke-linecap="round" stroke-linejoin="round" aria-hidden="true"><path d="M19 12H5m6-6-6 6 6 6"/></svg> Volver a las tareas</a>
 <div class="task-layout"><article class="task-main"><p class="eyebrow">DAPW · Tarea</p><h1>Flask Cat App – Evaluable</h1>
@@ -20,4 +20,4 @@
 <div><dt>Estado en Teams</dt><dd>Publicada</dd></div>
 <div><dt>Puntuación</dt><dd>Sin puntuación</dd></div>
 </dl><p class="timezone">Fechas en la hora de Madrid.</p><a id="task-pdf-download" class="button task-pdf" href="Flask%20Cat%20App%20%E2%80%93%20Evaluable.pdf" download="Flask Cat App – Evaluable.pdf"><svg viewBox="0 0 24 24" fill="none" stroke="currentColor" stroke-width="1.7" stroke-linecap="round" stroke-linejoin="round" aria-hidden="true"><path d="M12 3v12m-5-5 5 5 5-5M4 16v5h16v-5"/></svg> Descargar PDF</a>
-<p class="pdf-note">Enunciado e imágenes. Los adjuntos se descargan por separado.</p></aside></div></main><footer class="wrap footer"><span>DAPW · Biblioteca de tareas</span><span>Enunciados y materiales disponibles sin conexión</span></footer></body></html>
+<p class="pdf-note">Enunciado e imágenes. Los adjuntos se descargan por separado.</p></aside></div></main><footer class="wrap footer"><span>DAPW</span><span>Enunciados y materiales disponibles sin conexión</span></footer></body></html>

diff --git a/ejercicios/di/RA5 PYJINJA2+FASTAPI/TAREA.html b/ejercicios/di/RA5 PYJINJA2+FASTAPI/TAREA.html
@@ -4,10 +4,10 @@
 <meta name="theme-color" content="#16243d"><title>RA5 PYJINJA2+FASTAPI · 2DAM DI</title>
 <link rel="stylesheet" href="../../assets/aula.css">
 <link rel="stylesheet" href="../../assets/pdf.css">
-</head><body>
+<link rel="stylesheet" href="../../assets/marca.css"><link rel="icon" type="image/svg+xml" href="../../../assets/favicon.svg"></head><body>
 <a class="skip-link" href="#contenido">Ir al contenido</a>
 <header class="site-header"><div class="wrap header-inner">
-<a class="brand" href="../../../index.html" title="Volver a las asignaturas" aria-label="Volver a las asignaturas"><span class="brand-mark"><svg viewBox="0 0 24 24" fill="none" stroke="currentColor" stroke-width="1.7" stroke-linecap="round" stroke-linejoin="round" aria-hidden="true"><path d="M12 7c-3-2-6-2-9-1v14c3-1 6-1 9 1 3-2 6-2 9-1V6c-3-1-6-1-9 1Z"/><path d="M12 7v14"/></svg></span><span class="brand-text"><strong>2DAM DI</strong><span>Biblioteca de tareas</span></span></a>
+<a class="brand" href="../../../index.html" title="Volver a las asignaturas" aria-label="Volver a las asignaturas"><span class="brand-mark"><img src="../../../assets/favicon.svg" alt="" width="64" height="64"></span><span class="brand-text"><strong>2DAM DI</strong></span></a>
 <span class="header-note"><svg viewBox="0 0 24 24" fill="none" stroke="currentColor" stroke-width="1.7" stroke-linecap="round" stroke-linejoin="round" aria-hidden="true"><path d="M12 7c-3-2-6-2-9-1v14c3-1 6-1 9 1 3-2 6-2 9-1V6c-3-1-6-1-9 1Z"/><path d="M12 7v14"/></svg> 2DAM DI</span></div></header>
 <main class="wrap" id="contenido"><a class="back-link" href="../INDICE.html"><svg viewBox="0 0 24 24" fill="none" stroke="currentColor" stroke-width="1.7" stroke-linecap="round" stroke-linejoin="round" aria-hidden="true"><path d="M19 12H5m6-6-6 6 6 6"/></svg> Volver a las tareas</a>
 <div class="task-layout"><article class="task-main"><p class="eyebrow">2DAM DI · Tarea</p><h1>RA5 PYJINJA2+FASTAPI</h1>
@@ -20,4 +20,4 @@
 <div><dt>Estado en Teams</dt><dd>Publicada</dd></div>
 <div><dt>Puntuación</dt><dd>Sin puntuación</dd></div>
 </dl><p class="timezone">Fechas en la hora de Madrid.</p><a id="task-pdf-download" class="button task-pdf" href="RA5%20PYJINJA2%2BFASTAPI.pdf" download="RA5 PYJINJA2+FASTAPI.pdf"><svg viewBox="0 0 24 24" fill="none" stroke="currentColor" stroke-width="1.7" stroke-linecap="round" stroke-linejoin="round" aria-hidden="true"><path d="M12 3v12m-5-5 5 5 5-5M4 16v5h16v-5"/></svg> Descargar PDF</a>
-<p class="pdf-note">Enunciado e imágenes. Los adjuntos se descargan por separado.</p></aside></div></main><footer class="wrap footer"><span>2DAM DI · Biblioteca de tareas</span><span>Enunciados y materiales disponibles sin conexión</span></footer></body></html>
+<p class="pdf-note">Enunciado e imágenes. Los adjuntos se descargan por separado.</p></aside></div></main><footer class="wrap footer"><span>2DAM DI</span><span>Enunciados y materiales disponibles sin conexión</span></footer></body></html>
